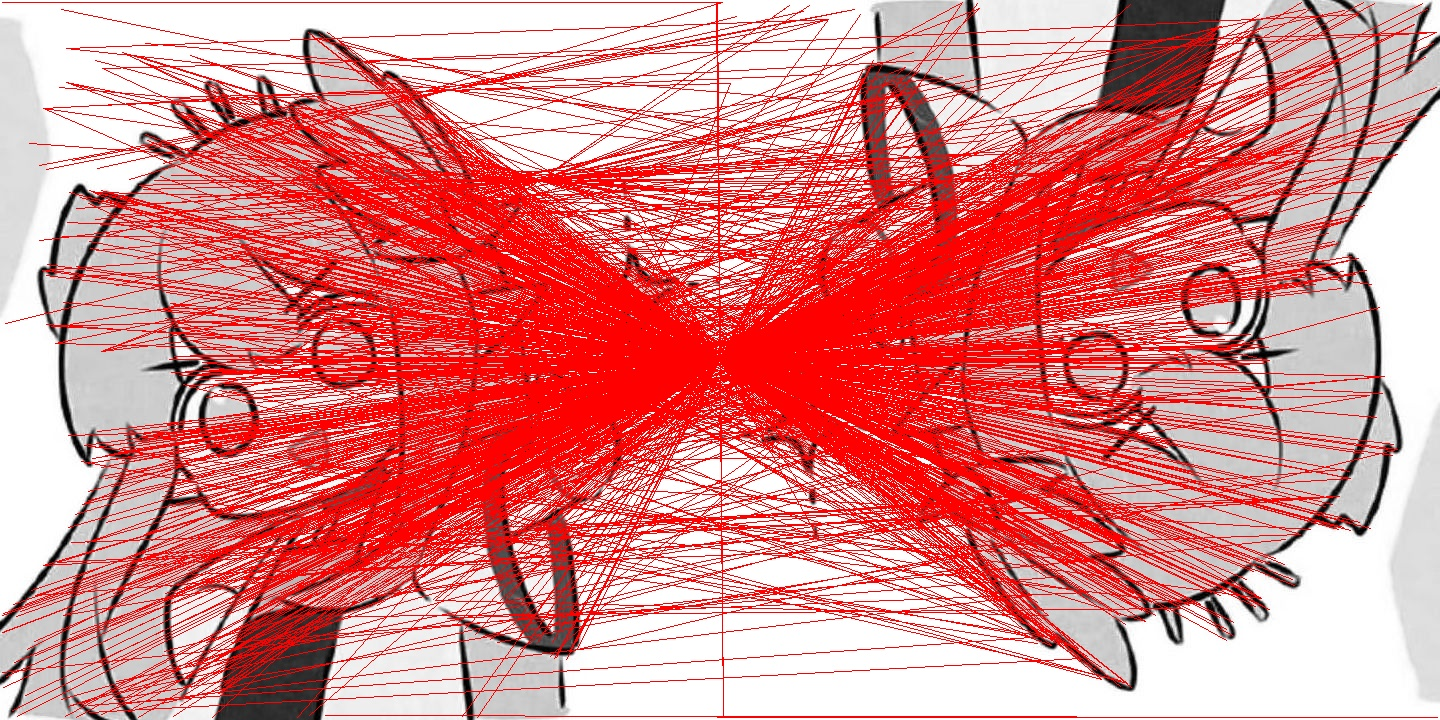
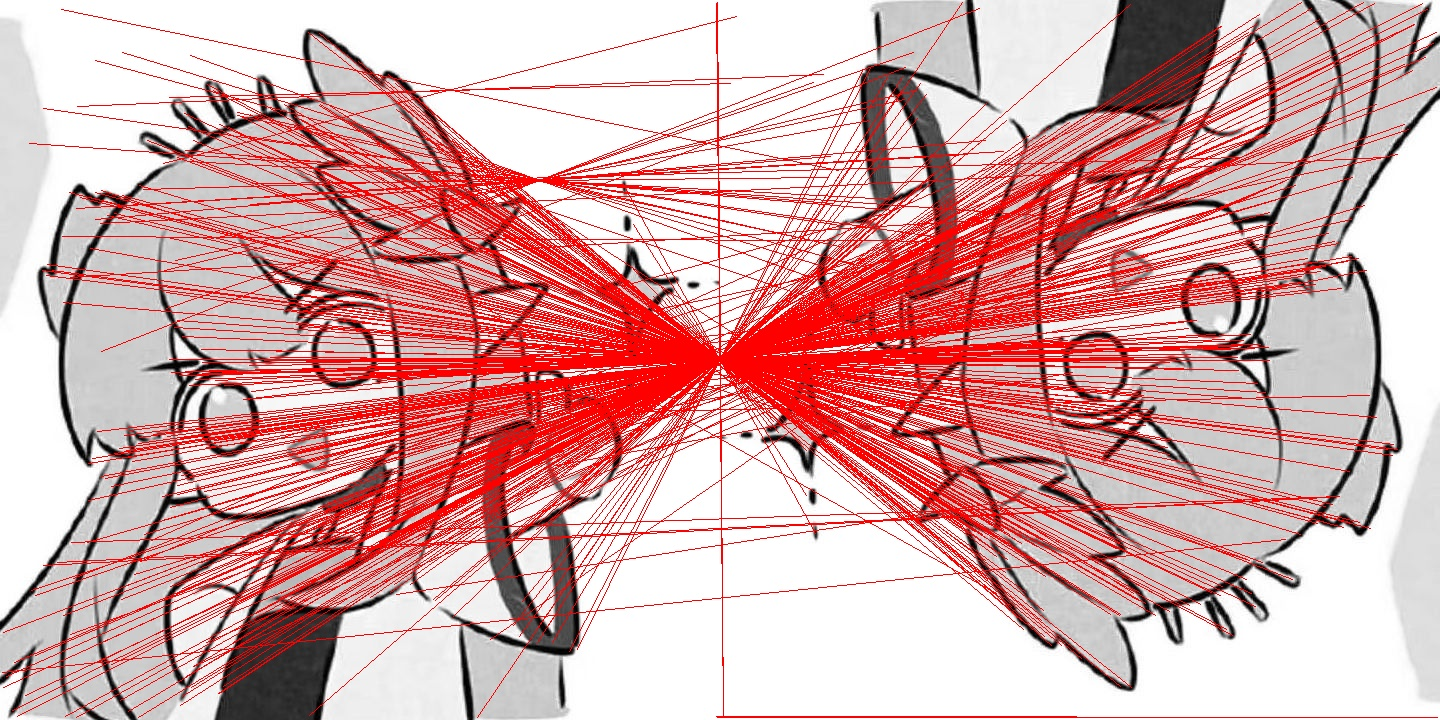
update

diff --git a/Code/sift_myself.py b/Code/sift_myself.py
@@ -330,12 +330,18 @@ def match(des1, des2):
     for i in range(len(des1)):
         min_dis = 1e10
         min_j = -1
+        min_dis2 = 1e10
         for j in range(len(des2)):
             dis = np.sqrt(np.sum(np.power(des1[i] - des2[j], 2)))
             if dis < min_dis:
+                min_dis2 = min_dis
                 min_dis = dis
                 min_j = j
-        match.append([i, min_j])
+            else:
+                if dis < min_dis2:
+                    min_dis2 = dis
+        if min_dis < threshold * min_dis2:
+            match.append([i, min_j])
 
     return match
 
